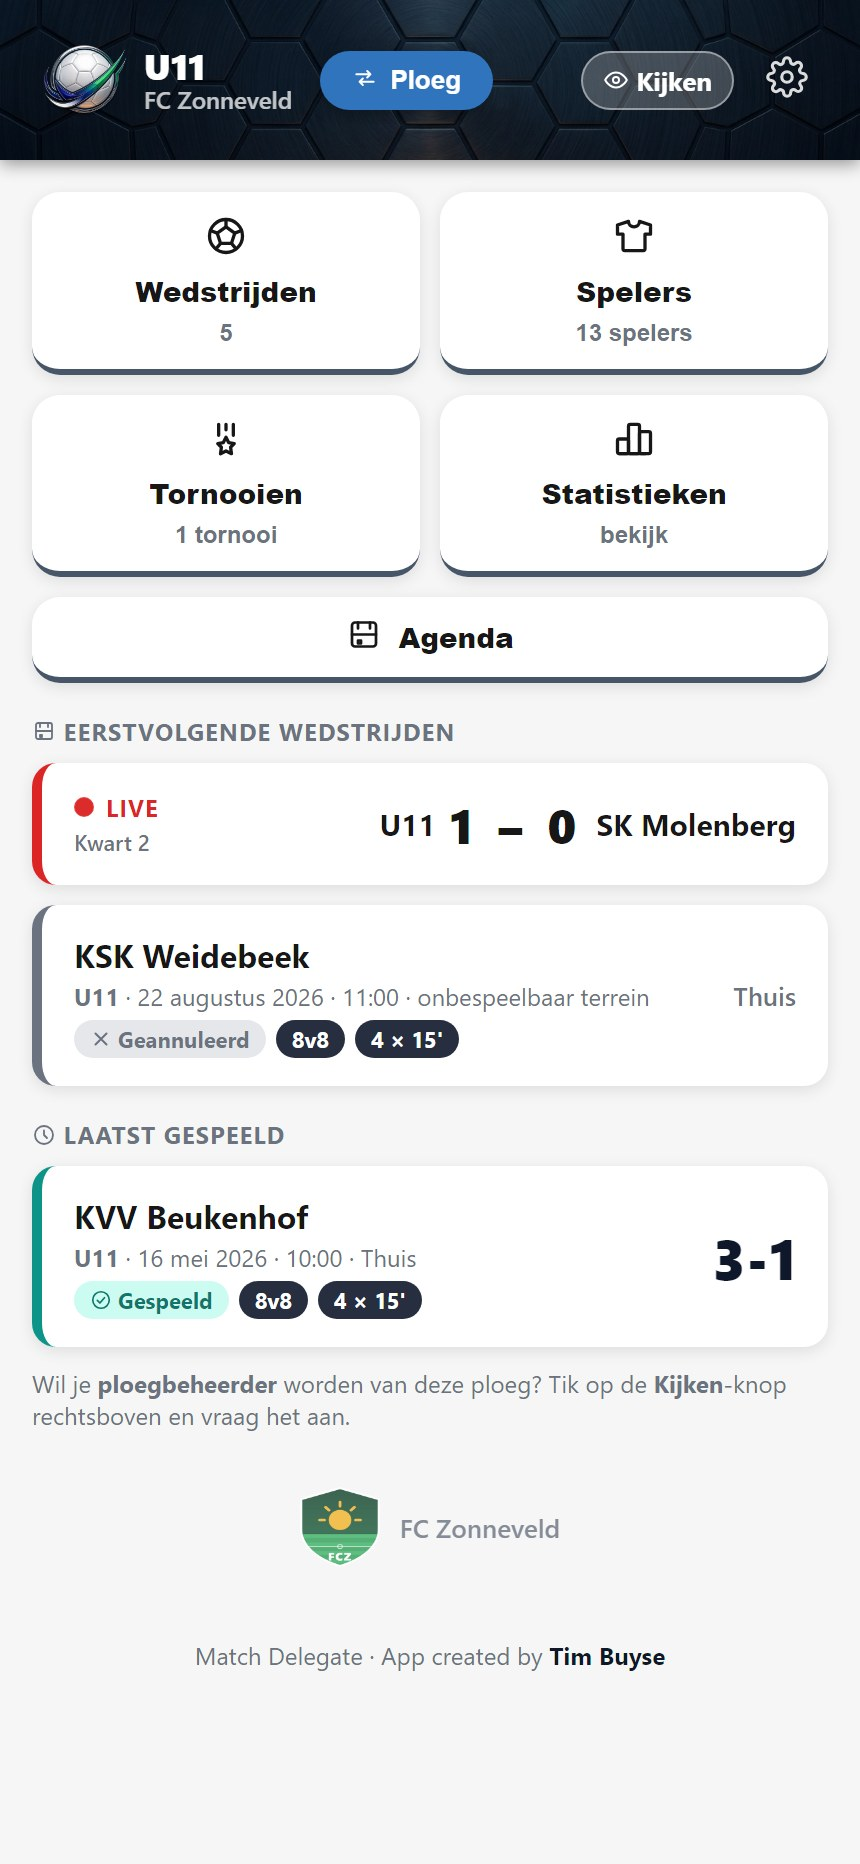
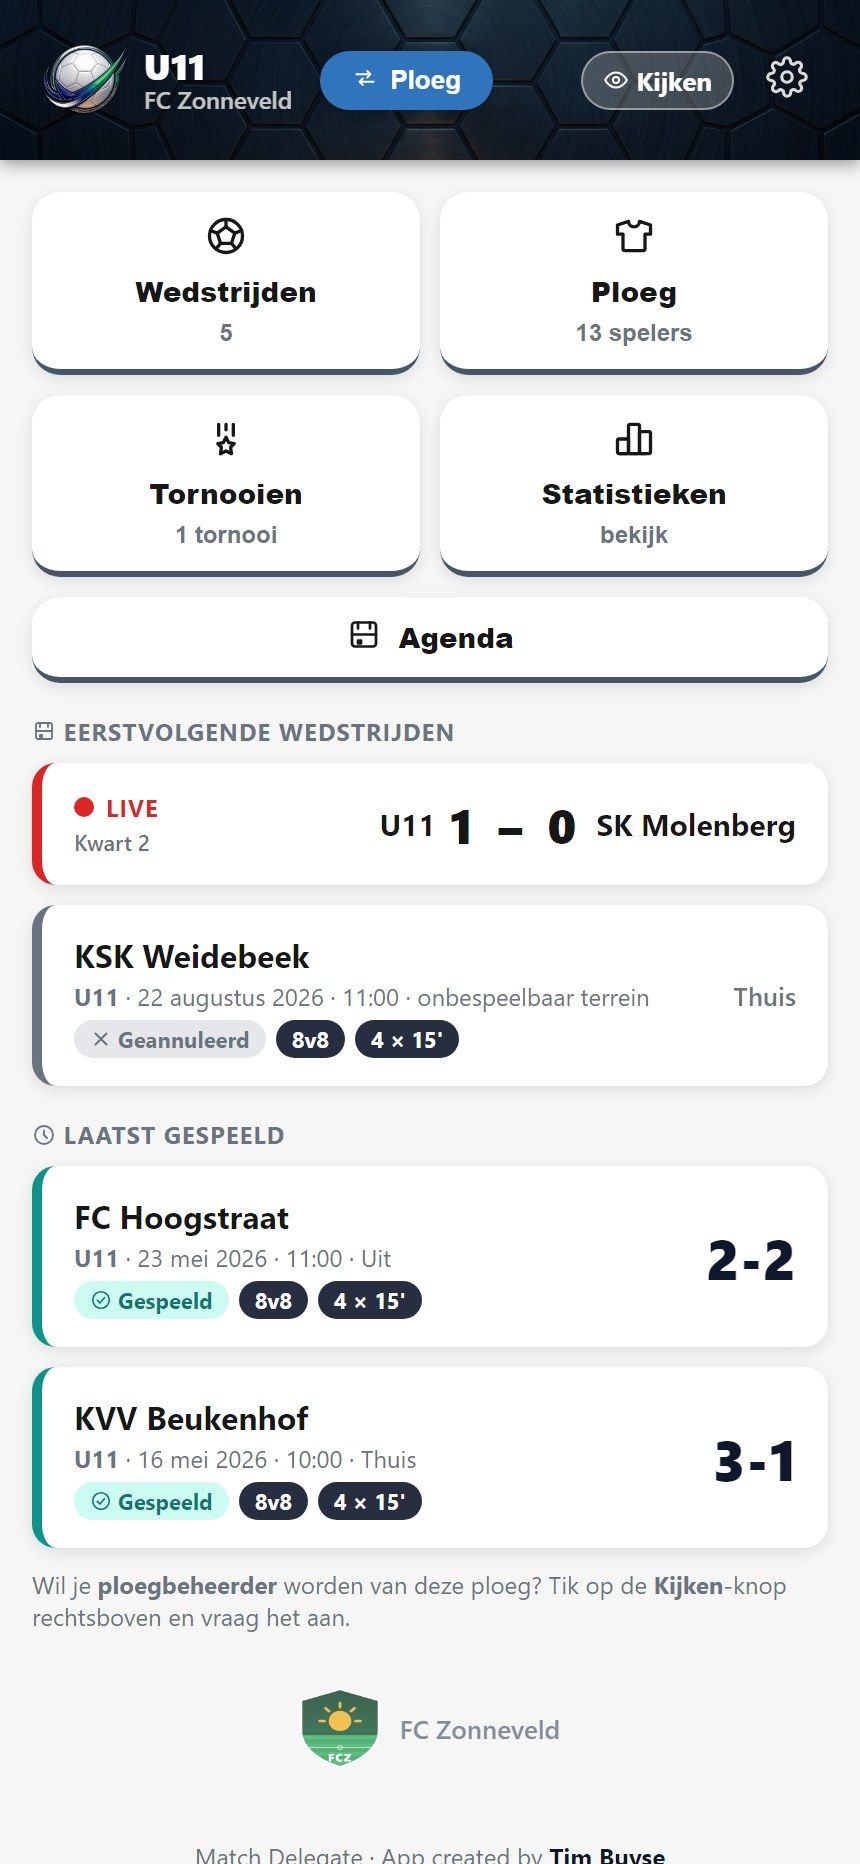
site: bijgewerkt naar de app van vandaag (v0.46.0)
Controle van elke bewering op de site tegen de app. Wat nog klopte, bleef staan;
dit weken af:

- De clubexport heeft geen vier tabbladen meer. Sinds v0.46.0 kies je een SEIZOEN
  bij het exporteren, staan tornooiwedstrijden in een eigen tabblad en tellen ze
  niet mee in de gemiddelden, en is er een tabblad per speler naast een tabblad
  per speler per ploeg. De tekst noemt nu geen aantal tabbladen meer - dat cijfer
  verandert toch - maar beschrijft wat erin zit.
- Bij de vraag over doorschuiven staat nu waarom een speler die middenin het
  seizoen van ploeg verandert twee keer in de export voorkomt: opgeteld over al
  zijn ploegen ("heeft dit kind genoeg gevoetbald?") en gesplitst per ploeg ("hoe
  is de speeltijd in mijn ploeg verdeeld?"). Enkel per ploeg tonen zou hem in
  beide ploegen te weinig laten spelen.
- Het beeld bovenaan toonde een app die niet meer bestaat: de tegel heette
  "Spelers" en er stond een enkele laatst gespeelde wedstrijd. Sinds v0.45.0 heet
  die tegel "Ploeg" en sinds v0.38.1 staan er twee. Opnieuw opgenomen; het
  clubwapen van de demoploeg staat nu ook in de voettekst van de app.
- Ook de agenda en het live-scherm zijn opnieuw genomen (enkel de dagmarkering en
  de klok verschillen). De vier andere beelden bleken byte-identiek: die schermen
  zijn in de app niet veranderd.

diff --git a/index.html b/index.html
@@ -738,10 +738,13 @@
         <summary>Kan ik de gegevens uit de app halen?</summary>
         <div class="antw"><p>Het wedstrijdverslag is een <b>PDF</b>, klaar om te delen — ook
         rechtstreeks via WhatsApp.</p>
-        <p>Daarnaast is er de <b>clubexport: één Excel-bestand met de hele club</b>, in vier
-        tabbladen. Eén regel per speler per gespeelde wedstrijd met zijn speeltijd, één regel per
-        wedstrijd inclusief de geplande, de spelerslijsten en de ploegen. Dat bestand komt <b>uit de
-        databank en niet van uw toestel</b>, dus ook ploegen die u zelf nooit opende zitten erin.</p>
+        <p>Daarnaast is er de <b>clubexport: één Excel-bestand met de hele club</b>, per seizoen.
+        Daarin een overzicht per ploeg, de spelers met hun cijfers, alle wedstrijden inclusief de
+        geplande, en de speeltijd per speler per wedstrijd. Dat bestand komt <b>uit de databank en
+        niet van uw toestel</b>, dus ook ploegen die u zelf nooit opende zitten erin.</p>
+        <p>Tornooien staan apart en tellen niet mee in de gemiddelden — een tornooidag is vijf
+        wedstrijdjes van tien minuten, en die meerekenen maakt "gemiddelde minuten per wedstrijd"
+        waardeloos.</p>
         <p>Wat er bewust <b>niet</b> in zit: spelernotities en de details van een kwetsuur. Die zijn
         in de app enkel voor wie de ploeg begeleidt, en horen niet in een bestand dat rondgaat.</p></div>
       </details>
@@ -755,7 +758,11 @@
         <p>Een hele lichting gaat in één keer: u vinkt aan wie meegaat — nooit automatisch, want er
         blijft altijd iemand achter — u ziet de lijst vóór het opslaan, en het kan in één klik terug.
         Dat werkt ook <b>tijdens</b> het seizoen, voor een speler die tussen twee leeftijdsgroepen op
-        en af gaat.</p></div>
+        en af gaat.</p>
+        <p>In de clubexport krijgt zo'n speler twee keer een plek, omdat het twee verschillende vragen
+        zijn: opgeteld over al zijn ploegen — <i>heeft dit kind genoeg gevoetbald?</i> — en gesplitst
+        per ploeg — <i>hoe is de speeltijd in mijn ploeg verdeeld?</i> Enkel per ploeg tonen zou hem
+        in beide ploegen te weinig laten spelen.</p></div>
       </details>
 
       <details class="vraag">
